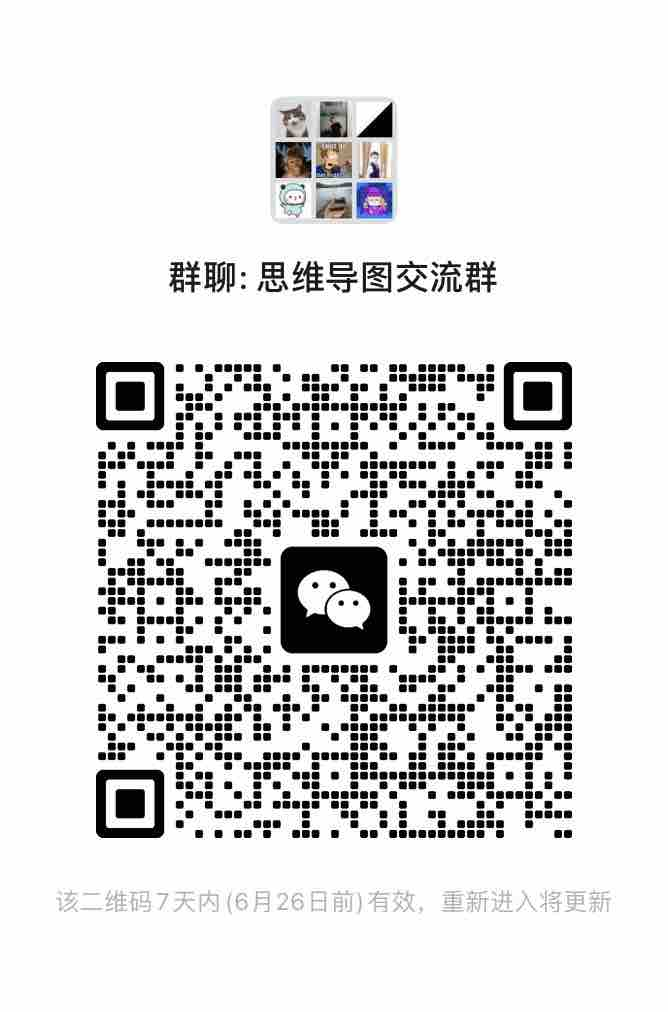
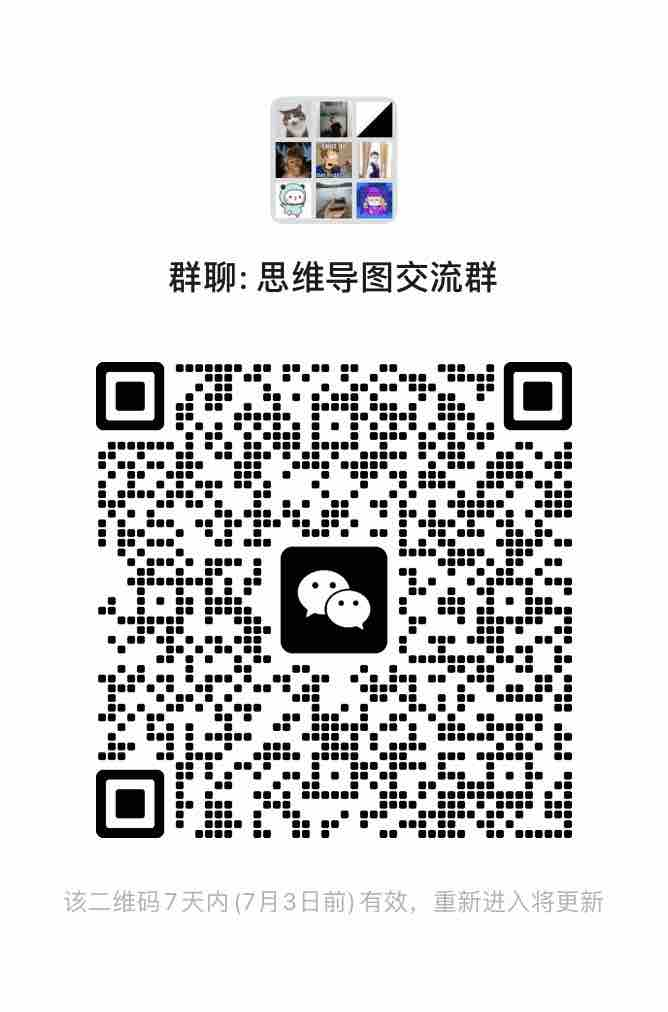
更新群二维码

diff --git a/README.md b/README.md
@@ -92,6 +92,8 @@ MIT
 
 <img src="./qrcode.jpg" style="width: 300px" />
 
+如果已过期，可以微信添加`wanglinguanfang`拉你入群。
+
 # 请作者喝杯咖啡
 
 > 厚椰乳一盒 + 纯牛奶半盒 + 冰块 + 咖啡液 = 生椰拿铁 yyds
